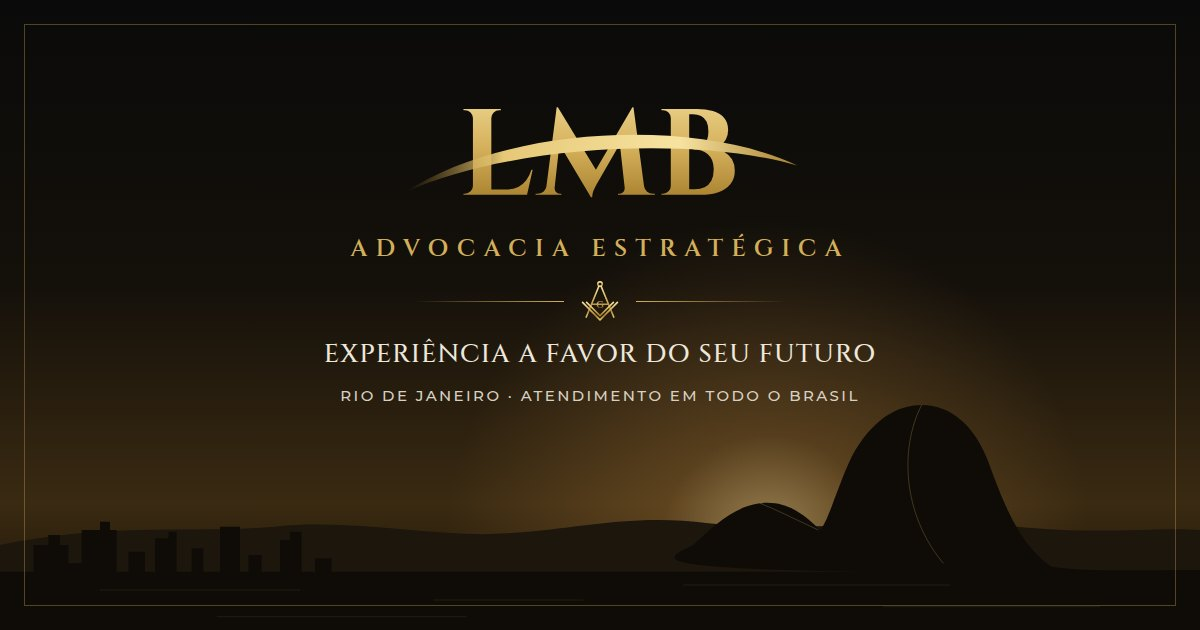
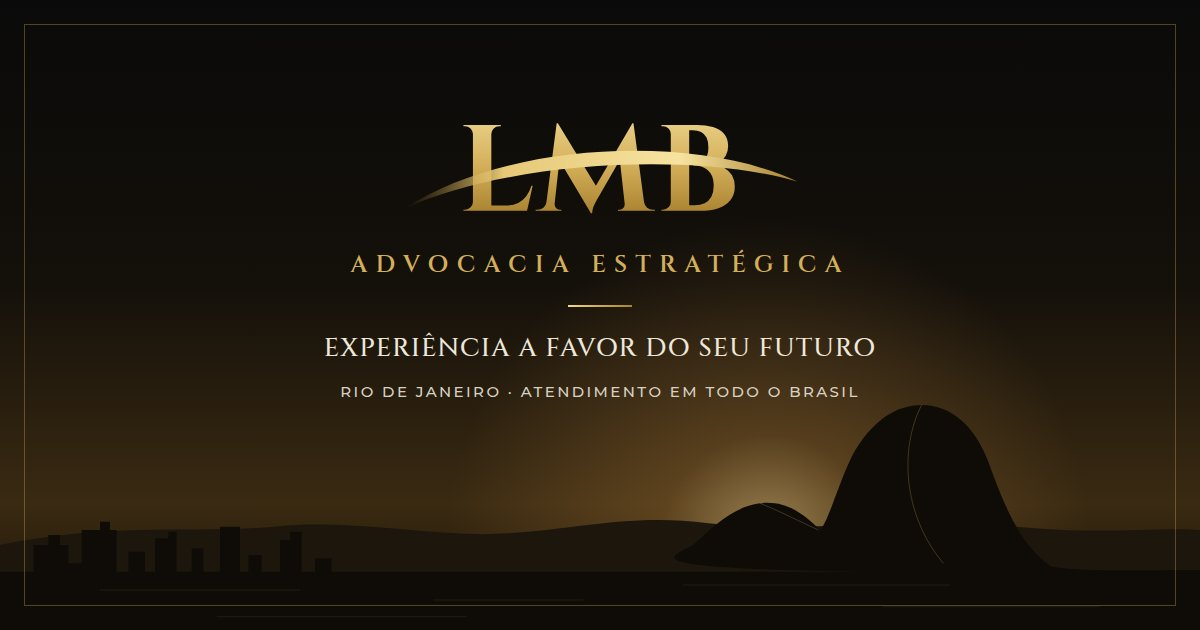
Remove o emblema de esquadro e compasso e volta aos ornamentos discretos
Claude-Session: https://claude.ai/code/session_01KeUDgpfwfzimbVqSmPvtkD

Changed region(s): [[0.2775, 0.1508, 0.74, 0.573], [0.2775, 0.6032, 0.7092, 0.6333], [0.37, 0.1508, 0.4317, 0.2111]]

diff --git a/index.html b/index.html
@@ -18,9 +18,9 @@
   <meta property="og:image:type" content="image/jpeg">
   <meta property="og:image:width" content="1200">
   <meta property="og:image:height" content="630">
-  <meta property="og:image:alt" content="Logotipo LMB em dourado sobre fundo preto, com esquadro e compasso e os dizeres Advocacia Estratégica, Experiência a favor do seu futuro, Rio de Janeiro, atendimento em todo o Brasil.">
+  <meta property="og:image:alt" content="Logotipo LMB em dourado sobre fundo preto, com os dizeres Advocacia Estratégica, Experiência a favor do seu futuro, Rio de Janeiro, atendimento em todo o Brasil.">
   <meta name="twitter:card" content="summary_large_image">
-  <meta name="twitter:image:alt" content="Logotipo LMB em dourado sobre fundo preto, com esquadro e compasso e os dizeres Advocacia Estratégica, Experiência a favor do seu futuro, Rio de Janeiro, atendimento em todo o Brasil.">
+  <meta name="twitter:image:alt" content="Logotipo LMB em dourado sobre fundo preto, com os dizeres Advocacia Estratégica, Experiência a favor do seu futuro, Rio de Janeiro, atendimento em todo o Brasil.">
   <meta name="theme-color" content="#0a0a0a">
   <meta name="color-scheme" content="dark">
   <link rel="icon" href="assets/favicon.svg" type="image/svg+xml">
@@ -243,13 +243,6 @@
     .area .icon { width: 34px; height: 34px; margin-bottom: 1.4rem; }
     .area--wide { grid-column: 1 / -1; display: flex; gap: 1.6rem; align-items: flex-start; }
     .area--wide .icon { width: 40px; height: 40px; margin: 0; }
-    .emblema { display: flex; align-items: center; justify-content: center; gap: 14px; margin: 1.6rem auto; }
-    .emblema::before, .emblema::after { content: ""; width: clamp(60px, 14vw, 180px); height: 1px; background: linear-gradient(90deg, rgba(212,175,90,0), var(--gold)); }
-    .emblema::after { transform: scaleX(-1); }
-    .emblema svg { width: 42px; height: 42px; flex: none; }
-    .emblema--left { justify-content: flex-start; margin: 1.2rem 0 1.4rem; }
-    .emblema--left::before { display: none; }
-    .emblema--left::after { width: 120px; }
     .ornament { display: flex; align-items: center; justify-content: center; gap: 14px; margin: 1.8rem auto; }
     .ornament::before, .ornament::after { content: ""; width: 44px; height: 1px; background: linear-gradient(90deg, rgba(212,175,90,0), var(--gold)); }
     .ornament::after { transform: scaleX(-1); }
@@ -620,14 +613,6 @@
     <symbol id="i-prumo" viewBox="0 0 24 24"><path d="M7 3.5h10M12 3.5V12"/><path d="M12 12c1.7 0 2.7 1 2.7 2.3 0 1.7-1.4 3.6-2.7 6.4-1.3-2.8-2.7-4.7-2.7-6.4 0-1.3 1-2.3 2.7-2.3Z"/></symbol>
     <symbol id="i-pin" viewBox="0 0 24 24"><path d="M12 21s-7-6.2-7-12a7 7 0 0 1 14 0c0 5.8-7 12-7 12Z"/><circle cx="12" cy="9" r="2.5"/></symbol>
     <symbol id="i-ancora" viewBox="0 0 24 24"><circle cx="12" cy="4.5" r="2"/><path d="M12 6.5V21M8 10h8M4.5 13.5a7.5 7.5 0 0 0 15 0M3 15.5l1.5-2 2 1.5M21 15.5l-1.5-2-2 1.5"/></symbol>
-    <symbol id="i-emblema" viewBox="0 0 48 48">
-      <g fill="none" stroke="url(#gold)" stroke-width="1.8" stroke-linecap="round" stroke-linejoin="round">
-        <circle cx="24" cy="5.5" r="2.4"/>
-        <path d="M22.9 7.7 9 41.5M25.1 7.7 39 41.5M14.8 27.5h18.4"/>
-        <path d="M5 25.5 24 44.5 43 25.5M9.4 25.5 24 40.1 38.6 25.5"/>
-      </g>
-      <text x="24" y="31.5" text-anchor="middle" font-family="Cinzel, 'Times New Roman', serif" font-weight="600" font-size="10" fill="url(#gold)">G</text>
-    </symbol>
     <symbol id="i-tri" viewBox="0 0 12 11"><circle cx="6" cy="2" r="1.6"/><circle cx="2" cy="9" r="1.6"/><circle cx="10" cy="9" r="1.6"/></symbol>
     <symbol id="coluna" viewBox="0 0 200 600">
       <g fill="none" stroke="url(#gold)" stroke-width="1.4">
@@ -677,7 +662,7 @@
       <div class="container hero__inner">
         <svg class="hero__logo" viewBox="0 0 300 110" role="img" aria-label="LMB"><use href="#logo"/></svg>
         <p class="hero__brand">Advocacia Estratégica</p>
-        <span class="emblema emblema--left" aria-hidden="true"><svg focusable="false"><use href="#i-emblema"/></svg></span>
+        <span class="rule" aria-hidden="true"></span>
         <p class="eyebrow hero__eyebrow">Escritório de advocacia no Rio&nbsp;de&nbsp;Janeiro</p>
         <h1 class="hero__title">Experiência a favor<br> do <span class="gold">seu futuro.</span></h1>
         <p class="hero__lead">
@@ -840,7 +825,7 @@
         <svg class="closing__logo" viewBox="0 0 300 110" role="img" aria-label="LMB"><use href="#logo"/></svg>
         <p class="hero__brand">Advocacia Estratégica</p>
         <p class="tagline">Soluções <i></i> Negócios <i></i> Resultados</p>
-        <span class="emblema" aria-hidden="true"><svg focusable="false"><use href="#i-emblema"/></svg></span>
+        <span class="ornament" aria-hidden="true"><svg class="tri" focusable="false"><use href="#i-tri"/></svg></span>
         <h2 class="closing__title">O Direito como parte da estratégia.</h2>
         <a href="https://wa.me/5521900000000?text=Ol%C3%A1%2C%20preciso%20de%20orienta%C3%A7%C3%A3o%20jur%C3%ADdica." class="btn btn--gold" target="_blank" rel="noopener">Falar com a LMB</a>
       </div>

diff --git a/README.md b/README.md
@@ -69,5 +69,4 @@ de compliance do escritório antes de publicar.
 - Fontes: Cinzel (títulos) e Montserrat (texto)
 - Assinatura: "Experiência a favor do seu futuro" · Soluções | Negócios | Resultados
 - Ilustração do Pão de Açúcar ao pôr do sol em SVG (`<symbol id="rio">`); pode ser trocada por foto real
-- Emblema de esquadro e compasso com G (`<symbol id="i-emblema">`) no divisor do topo e do fechamento, como no logo
-- Ornamentos clássicos: pórtico de duas colunas (seção Visão), ícones de nível, esquadro e prumo (Método) e vinheta de três pontos no rodapé
+- Ornamentos clássicos discretos: pórtico de duas colunas (seção Visão), ícones de nível, esquadro e prumo (Método) e vinheta de três pontos no rodapé
